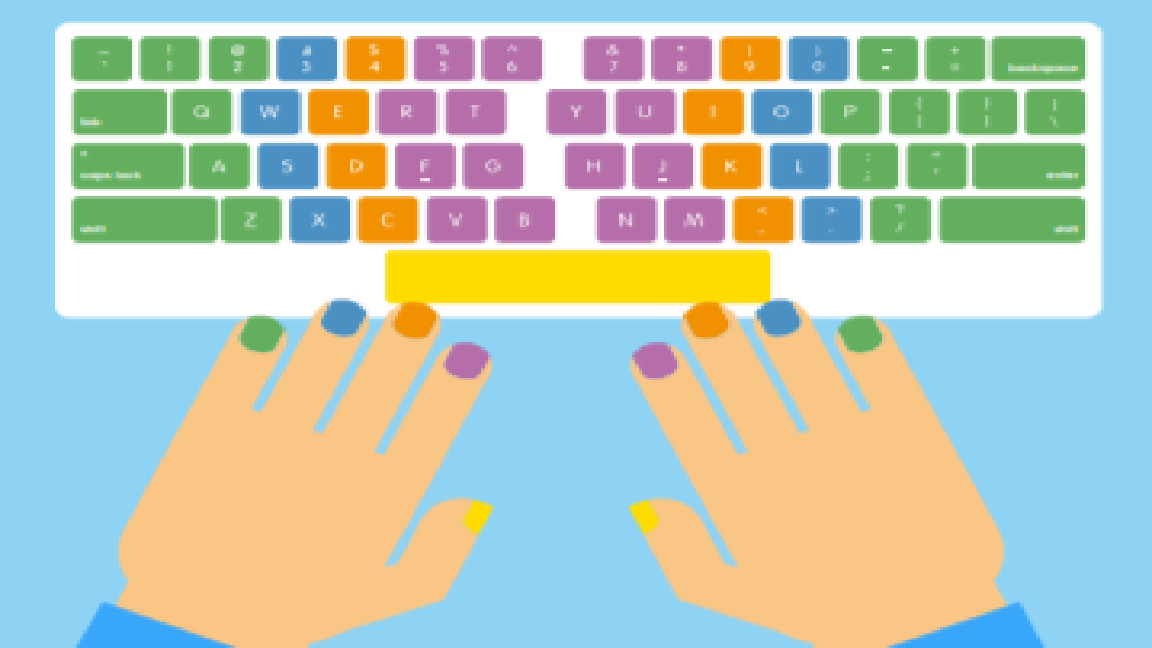
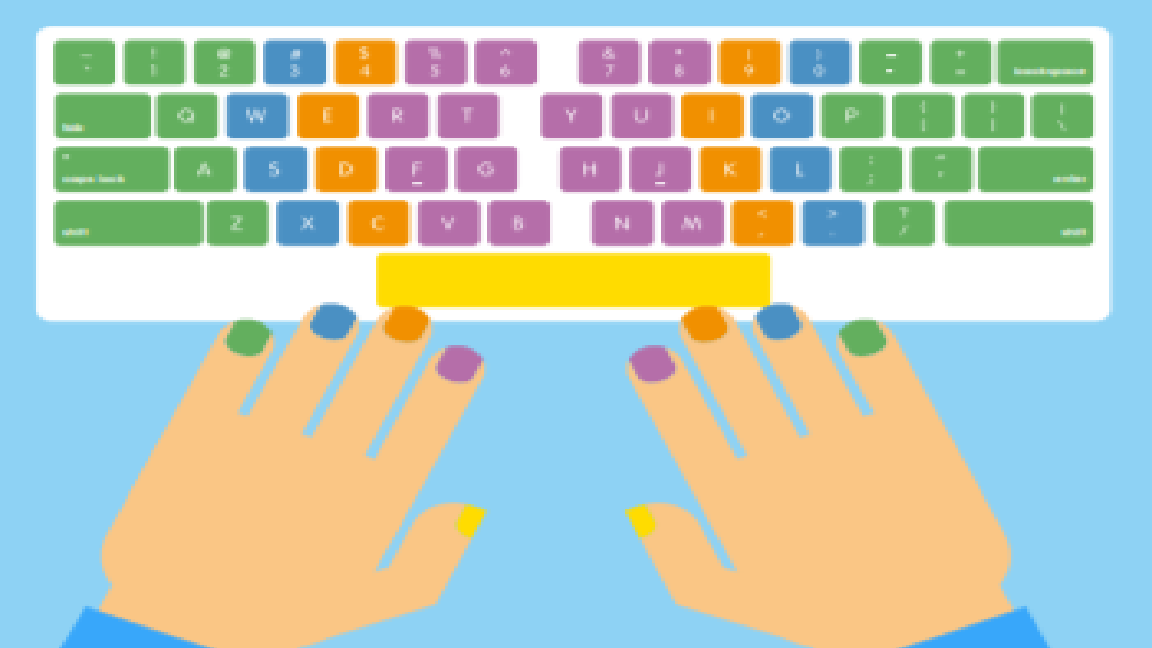
Update keyboard word clicker

diff --git a/LerenTypen/Pages/TipPage.xaml b/LerenTypen/Pages/TipPage.xaml
@@ -1,4 +1,4 @@
-<Page x:Class="LerenTypen.TipPage"
+<Page x:Name="TipPage_WPF" x:Class="LerenTypen.TipPage"
       xmlns="http://schemas.microsoft.com/winfx/2006/xaml/presentation"
       xmlns:x="http://schemas.microsoft.com/winfx/2006/xaml"
       xmlns:mc="http://schemas.openxmlformats.org/markup-compatibility/2006" 
@@ -6,7 +6,7 @@
       xmlns:local="clr-namespace:LerenTypen"
       mc:Ignorable="d" 
       d:DesignHeight="570" d:DesignWidth="1050" Background="White"
-      Title="Page4" ShowsNavigationUI="False">
+      Title="Page4" ShowsNavigationUI="False" KeyDown="KeyUp_Clicker">
 
     <Grid>
         <Grid.ColumnDefinitions>
@@ -15,17 +15,166 @@
         </Grid.ColumnDefinitions>
         <Grid.RowDefinitions>
             <RowDefinition Height="103*"/>
-            <RowDefinition Height="255*"/>
-            <RowDefinition Height="211*"/>
+            <RowDefinition Height="401*"/>
+            <RowDefinition Height="401*"/>
+            <RowDefinition Height="66*"/>
         </Grid.RowDefinitions>
 
         <Label x:Name="TipPage_Label_Title" Grid.Column="0" Grid.Row="0" Content="Tips en advies" HorizontalAlignment="Left" VerticalAlignment="Top" FontSize="32" FontWeight="Bold" Height="53" Width="352"/>
-        <Image Source="/img/HandenV2.png" RenderOptions.BitmapScalingMode="HighQuality" Margin="0,103,0,0.4" Grid.RowSpan="2"/>
-        <Label Content="Heb jij moeite met blind leren typen? Hopelijk kan deze pagina jou helpen.&#xD;&#xA;Begin met een goede houding. Ontspan je schouders en ga rechtop zitten. Zet je linkerwijsvinger op de F-knop&#xD;&#xA;en je rechterwijsvinger op de J-knop. Op deze knoppen voel je streepjes, die helpen je om deze toetsen altijd&#xD;&#xA;terug te kunnen vinden. Zet vervolgens de rest van je vingers aan je linkerhand op de knoppen; A, S en D. &#xD;&#xA;Voor de rechterhand gaan de vingers op knoppen: K,L en ;. Nu heb je een goede uitgangspositie. &#xD;&#xA;Iedere keer als je een letter hebt getypt, kan je terug naar deze uitgangspositie. &#xD;&#xA;Hiernaast staat een plaatje van een QWERTY-toetsenbord met daarbij informatie over welke vinger op &#xD;&#xA;welke toets moet. De kleuren van de letters komen overeen met de kleuren van de vingers. &#xD;&#xA;Zo kan je zien welke vinger op welke plek moet. Probeer bij het oefenen van een toets niet naar het &#xD;&#xA;toetsenbord te kijken, maar zo veel mogelijk naar het scherm. En vergeet niet, oefening baart kunst!&#xD;&#xA;&#xD;&#xA;&#xD;&#xA;Succes!" Grid.Row="1" Grid.Column="1" HorizontalAlignment="Left" VerticalAlignment="Top" Height="255" Grid.RowSpan="2" Width="602"/>
-        <StackPanel Orientation="Horizontal" Grid.Row="1" Grid.Column="1" VerticalAlignment="Bottom" HorizontalAlignment="Left">
-            <Label Content="Wil je persoonlijk advies zien? log hier in:" Width="230" />
-            <Button x:Name="loginRegisterButton" Width="300" Click="LoginRegisterButton_Click">Inloggen/registreren om toetsen te oefenen</Button>
+        <Image Source="/img/KeyboardPlacements.png" RenderOptions.BitmapScalingMode="HighQuality" Margin="0,103,0,3" Grid.RowSpan="2"/>
+        <Label Content="Heb jij moeite met blind leren typen? Hopelijk kan deze pagina jou helpen.&#xD;&#xA;Begin met een goede houding. Ontspan je schouders en ga rechtop zitten. Zet je linkerwijsvinger op de F-knop&#xD;&#xA;en je rechterwijsvinger op de J-knop. Op deze knoppen voel je streepjes, die helpen je om deze toetsen altijd&#xD;&#xA;terug te kunnen vinden. Zet vervolgens de rest van je vingers aan je linkerhand op de knoppen; A, S en D. &#xD;&#xA;Voor de rechterhand gaan de vingers op knoppen: K,L en ;. Nu heb je een goede uitgangspositie. &#xD;&#xA;Iedere keer als je een letter hebt getypt, kan je terug naar deze uitgangspositie. &#xD;&#xA;Hiernaast staat een plaatje van een QWERTY-toetsenbord met daarbij informatie over welke vinger op &#xD;&#xA;welke toets moet. De kleuren van de letters komen overeen met de kleuren van de vingers. &#xD;&#xA;Zo kan je zien welke vinger op welke plek moet. Probeer bij het oefenen van een toets niet naar het &#xD;&#xA;toetsenbord te kijken, maar zo veel mogelijk naar het scherm. En vergeet niet, oefening baart kunst!&#xD;&#xA;&#xD;&#xA;&#xD;&#xA;Succes!" Grid.Column="1" HorizontalAlignment="Left" VerticalAlignment="Top" Height="255" Grid.RowSpan="2" Width="602" Margin="0,103,-0.4,0"/>
+        <Image x:Name="TipPage_Image_HandsBlack" Source="/img/KeyboardPlacements.png" Grid.Column="1" Grid.Row="2" HorizontalAlignment="Left" VerticalAlignment="Top"/>
+        <Label Content="Wil je gaan oefenen? log hier in:" Width="230" Grid.Column="0" Grid.Row="3" HorizontalAlignment="Right"/>
+        <Button x:Name="loginRegisterButton" Width="300" HorizontalAlignment="Left" Grid.Column="1" Grid.Row="3" Click="LoginRegisterButton_Click">Inloggen/registreren om toetsen te oefenen</Button>
+        <TextBox x:Name="TipPage_TestBox" HorizontalAlignment="Left" Height="23" Margin="161,132,0,0" Grid.Row="2" TextWrapping="Wrap" Text="" VerticalAlignment="Top" Width="120" KeyDown="KeyUp_Clicker"/>
+        <StackPanel Orientation="Horizontal" Grid.Row="2" Grid.Column="1" HorizontalAlignment="Center" Margin="18,33,270.6,183.2" Width="313">
+            <Rectangle x:Name="TipPage_Canvas_Key_WobbleLine" Fill="Black" Width="19" Height="18" HorizontalAlignment="Left" VerticalAlignment="Top"/>
+            <Rectangle x:Name="TipPage_Canvas_Key_1" Fill="Black" Height="18" Width="20" HorizontalAlignment="Left" VerticalAlignment="Top" Margin="2,0"/>
+            <Rectangle x:Name="TipPage_Canvas_Key_2" Fill="Black" Height="18" Width="19" HorizontalAlignment="Left" VerticalAlignment="Top"/>
+            <Rectangle x:Name="TipPage_Canvas_Key_3" Fill="Black" Height="18" Width="21" HorizontalAlignment="Left" VerticalAlignment="Top" Margin="1,0"/>
+            <Rectangle x:Name="TipPage_Canvas_Key_4" Fill="Black" Height="18" Width="20" HorizontalAlignment="Left" VerticalAlignment="Top" Margin="1,0"/>
+            <Rectangle x:Name="TipPage_Canvas_Key_5" Fill="Black" Height="18" Width="21" HorizontalAlignment="Left" VerticalAlignment="Top" Margin="1,0"/>
+            <Rectangle x:Name="TipPage_Canvas_Key_6" Fill="Black" Height="18" Width="20" HorizontalAlignment="Left" VerticalAlignment="Top" Margin="1,0"/>
+            <Rectangle x:Name="TipPage_Canvas_Key_7" Fill="Black" Height="18" Width="20" HorizontalAlignment="Left" VerticalAlignment="Top" Margin="1,0"/>
+            <Rectangle x:Name="TipPage_Canvas_Key_8" Fill="Black" Height="18" Width="20" HorizontalAlignment="Left" VerticalAlignment="Top" Margin="1,0"/>
+            <Rectangle x:Name="TipPage_Canvas_Key_9" Fill="Black" Height="18" Width="20" HorizontalAlignment="Left" VerticalAlignment="Top" Margin="1,0"/>
+            <Rectangle x:Name="TipPage_Canvas_Key_0" Fill="Black" Height="18" Width="20" HorizontalAlignment="Left" VerticalAlignment="Top" Margin="1,0"/>
+            <Rectangle x:Name="TipPage_Canvas_Key_MinusSign" Fill="Black" Height="18" Width="20" HorizontalAlignment="Left" VerticalAlignment="Top" Margin="1,0"/>
+            <Rectangle x:Name="TipPage_Canvas_Key_EqualsSign" Fill="Black" Height="18" Width="20" HorizontalAlignment="Left" VerticalAlignment="Top" Margin="1,0"/>
+            <Rectangle x:Name="TipPage_Canvas_Key_Backspace" Fill="Black" Height="18" Width="33" HorizontalAlignment="Right" VerticalAlignment="Top" Margin="1,0"/>
         </StackPanel>
+        <StackPanel Orientation="Horizontal" Grid.Row="2" Grid.Column="1" HorizontalAlignment="Center" Margin="18,52,270.6,164.2" Width="313">
+            <Rectangle x:Name="TipPage_Canvas_Key_Tab" Fill="Black" Width="26" Height="18" HorizontalAlignment="Left" VerticalAlignment="Top"/>
+            <Rectangle x:Name="TipPage_Canvas_Key_Q" Fill="Black" Height="18" Width="20" HorizontalAlignment="Left" VerticalAlignment="Top" Margin="2,0"/>
+            <Rectangle x:Name="TipPage_Canvas_Key_W" Fill="Black" Height="18" Width="19" HorizontalAlignment="Left" VerticalAlignment="Top"/>
+            <Rectangle x:Name="TipPage_Canvas_Key_E" Fill="Black" Height="18" Width="21" HorizontalAlignment="Left" VerticalAlignment="Top" Margin="1,0"/>
+            <Rectangle x:Name="TipPage_Canvas_Key_R" Fill="Black" Height="18" Width="20" HorizontalAlignment="Left" VerticalAlignment="Top" Margin="1,0"/>
+            <Rectangle x:Name="TipPage_Canvas_Key_T" Fill="Black" Height="18" Width="21" HorizontalAlignment="Left" VerticalAlignment="Top" Margin="1,0"/>
+            <Rectangle x:Name="TipPage_Canvas_Key_Y" Fill="Black" Height="18" Width="20" HorizontalAlignment="Left" VerticalAlignment="Top" Margin="1,0"/>
+            <Rectangle x:Name="TipPage_Canvas_Key_U" Fill="Black" Height="18" Width="20" HorizontalAlignment="Left" VerticalAlignment="Top" Margin="1,0"/>
+            <Rectangle x:Name="TipPage_Canvas_Key_I" Fill="Black" Height="18" Width="20" HorizontalAlignment="Left" VerticalAlignment="Top" Margin="1,0"/>
+            <Rectangle x:Name="TipPage_Canvas_Key_O" Fill="Black" Height="18" Width="20" HorizontalAlignment="Left" VerticalAlignment="Top" Margin="1,0"/>
+            <Rectangle x:Name="TipPage_Canvas_Key_P" Fill="Black" Height="18" Width="20" HorizontalAlignment="Left" VerticalAlignment="Top" Margin="1,0"/>
+            <Rectangle x:Name="TipPage_Canvas_Key_LeftCurlyBracket" Fill="Black" Height="18" Width="20" HorizontalAlignment="Left" VerticalAlignment="Top" Margin="1,0"/>
+            <Rectangle x:Name="TipPage_Canvas_Key_RightCurlyBracket" Fill="Black" Height="18" Width="20" HorizontalAlignment="Left" VerticalAlignment="Top" Margin="1,0"/>
+        </StackPanel>
+        <StackPanel x:Name="TipPage_StackPanel_Keyboard_Row2" Orientation="Horizontal" Grid.Row="2" Grid.Column="1" HorizontalAlignment="Center" Margin="18,71,270.6,146.2" Width="313">
+            <Rectangle x:Name="TipPage_Canvas_Key_Capital" Fill="Black" Width="32" Height="18" HorizontalAlignment="Left" VerticalAlignment="Top"/>
+            <Rectangle x:Name="TipPage_Canvas_Key_A" Fill="Black" Height="18" Width="20" HorizontalAlignment="Left" VerticalAlignment="Top" Margin="2,0"/>
+            <Rectangle x:Name="TipPage_Canvas_Key_S" Fill="Black" Height="18" Width="19" HorizontalAlignment="Left" VerticalAlignment="Top" Margin="1,0"/>
+            <Rectangle x:Name="TipPage_Canvas_Key_D" Fill="Black" Height="18" Width="21" HorizontalAlignment="Left" VerticalAlignment="Top" Margin="1,0"/>
+            <Rectangle x:Name="TipPage_Canvas_Key_F" Fill="Black" Height="18" Width="20" HorizontalAlignment="Left" VerticalAlignment="Top" Margin="1,0"/>
+            <Rectangle x:Name="TipPage_Canvas_Key_G" Fill="Black" Height="18" Width="20" HorizontalAlignment="Left" VerticalAlignment="Top" Margin="1,0"/>
+            <Rectangle x:Name="TipPage_Canvas_Key_H" Fill="Black" Height="18" Width="20" HorizontalAlignment="Left" VerticalAlignment="Top" Margin="1,0"/>
+            <Rectangle x:Name="TipPage_Canvas_Key_J" Fill="Black" Height="18" Width="20" HorizontalAlignment="Left" VerticalAlignment="Top" Margin="1,0"/>
+            <Rectangle x:Name="TipPage_Canvas_Key_K" Fill="Black" Height="18" Width="20" HorizontalAlignment="Left" VerticalAlignment="Top" Margin="1,0"/>
+            <Rectangle x:Name="TipPage_Canvas_Key_L" Fill="Black" Height="18" Width="20" HorizontalAlignment="Left" VerticalAlignment="Top" Margin="1,0"/>
+            <Rectangle x:Name="TipPage_Canvas_Key_Oem1" Fill="Black" Height="18" Width="20" HorizontalAlignment="Left" VerticalAlignment="Top" Margin="1,0"/>
+            <Rectangle x:Name="TipPage_Canvas_Key_Oem7" Fill="Black" Height="18" Width="20" HorizontalAlignment="Left" VerticalAlignment="Top" Margin="1,0"/>
+            <Rectangle x:Name="TipPage_Canvas_Key_HashTag" Fill="Black" Height="18" Width="20" HorizontalAlignment="Left" VerticalAlignment="Top" Margin="1,0"/>
+        </StackPanel>
+        <StackPanel Orientation="Horizontal" Grid.Row="2" Grid.Column="1" HorizontalAlignment="Center" Margin="18,89,270.6,127.2" Width="313">
+            <Rectangle x:Name="TipPage_Canvas_Key_LeftShift" Fill="Black" Width="20" Height="18" HorizontalAlignment="Left" VerticalAlignment="Bottom"/>
+            <Rectangle x:Name="TipPage_Canvas_Key_HorizontalLine" Fill="Black" Height="18" Width="20" HorizontalAlignment="Left" VerticalAlignment="Bottom" Margin="2,0"/>
+            <Rectangle x:Name="TipPage_Canvas_Key_Z" Fill="Black" Height="18" Width="19" HorizontalAlignment="Left" VerticalAlignment="Bottom"/>
+            <Rectangle x:Name="TipPage_Canvas_Key_X" Fill="Black" Height="18" Width="21" HorizontalAlignment="Left" VerticalAlignment="Bottom" Margin="1,0"/>
+            <Rectangle x:Name="TipPage_Canvas_Key_C" Fill="Black" Height="18" Width="20" HorizontalAlignment="Left" VerticalAlignment="Bottom" Margin="1,0"/>
+            <Rectangle x:Name="TipPage_Canvas_Key_V" Fill="Black" Height="18" Width="20" HorizontalAlignment="Left" VerticalAlignment="Bottom" Margin="1,0"/>
+            <Rectangle x:Name="TipPage_Canvas_Key_B" Fill="Black" Height="18" Width="20" HorizontalAlignment="Left" VerticalAlignment="Bottom" Margin="1,0"/>
+            <Rectangle x:Name="TipPage_Canvas_Key_N" Fill="Black" Height="18" Width="20" HorizontalAlignment="Left" VerticalAlignment="Bottom" Margin="1,0"/>
+            <Rectangle x:Name="TipPage_Canvas_Key_M" Fill="Black" Height="18" Width="20" HorizontalAlignment="Left" VerticalAlignment="Bottom" Margin="1,0"/>
+            <Rectangle x:Name="TipPage_Canvas_Key_LeftArrow" Fill="Black" Height="18" Width="20" HorizontalAlignment="Left" VerticalAlignment="Bottom" Margin="1,0"/>
+            <Rectangle x:Name="TipPage_Canvas_Key_RightArrow" Fill="Black" Height="18" Width="20" HorizontalAlignment="Left" VerticalAlignment="Bottom" Margin="1,0"/>
+            <Rectangle x:Name="TipPage_Canvas_Key_QuestionMark" Fill="Black" Height="18" Width="20" HorizontalAlignment="Left" VerticalAlignment="Bottom" Margin="1,0"/>
+            <Rectangle x:Name="TipPage_Canvas_Key_RightShift" Fill="Black" Height="18" Width="54" HorizontalAlignment="Left" VerticalAlignment="Bottom" Margin="1,0"/>
+        </StackPanel>
+        <StackPanel Orientation="Horizontal" Grid.Row="2" Grid.Column="1" HorizontalAlignment="Center" Margin="18,108,270.6,108.2" Width="313">
+            <Rectangle x:Name="TipPage_Canvas_Key_LeftControl" Fill="Black" Width="22" Height="18" HorizontalAlignment="Left" VerticalAlignment="Center"/>
+            <Rectangle x:Name="TipPage_Canvas_Key_LeftWindowsKey" Fill="Black" Height="18" Width="20" HorizontalAlignment="Left" VerticalAlignment="Center" Margin="2,0"/>
+            <Rectangle x:Name="TipPage_Canvas_Key_LeftAlt" Fill="Black" Height="18" Width="19" HorizontalAlignment="Left" VerticalAlignment="Center"/>
+            <Rectangle x:Name="TipPage_Canvas_Key_Spacebar" Fill="Black" Height="18" Width="158" HorizontalAlignment="Left" VerticalAlignment="Center" Margin="1,0"/>
+            <Rectangle x:Name="TipPage_Canvas_Key_RightAlt" Fill="Black" Height="18" Width="20" HorizontalAlignment="Left" VerticalAlignment="Center" Margin="1,0"/>
+            <Rectangle x:Name="TipPage_Canvas_Key_RightWindowsKey" Fill="Black" Height="18" Width="21" HorizontalAlignment="Left" VerticalAlignment="Center" Margin="1,0"/>
+            <Rectangle x:Name="TipPage_Canvas_Key_Empty" Fill="Black" Height="18" Width="20" HorizontalAlignment="Left" VerticalAlignment="Center" Margin="1,0"/>
+            <Rectangle x:Name="TipPage_Canvas_Key_RightControl" Fill="Black" Height="18" Width="21" HorizontalAlignment="Left" VerticalAlignment="Center" Margin="1,0"/>
+        </StackPanel>
+        <Rectangle x:Name="TipPage_Canvas_Key_EnterPart1" Grid.Column="1" Fill="Black" HorizontalAlignment="Left" Height="18" Margin="305,52,0,0" Grid.Row="2" VerticalAlignment="Top" Width="26"/>
+        <Rectangle x:Name="TipPage_Canvas_Key_EnterPart2" Grid.Column="1" Fill="Black" HorizontalAlignment="Left" Height="36" Margin="312,52,0,0" Grid.Row="2" VerticalAlignment="Top" Width="19"/>
+        <Canvas Grid.Column="1" HorizontalAlignment="Left" Height="68" Margin="63,108,0,0" Grid.Row="2" VerticalAlignment="Top" Width="217">
+            <Ellipse x:Name="TipPage_Canvas_Finger_LeftPink" Fill="Black" Width="10" Height="13" Canvas.Left="15" Canvas.Top="20"/>
+            <Ellipse x:Name="TipPage_Canvas_Finger_LeftRingFinger" Fill="Black" Width="10" Height="13" Canvas.Left="37" Canvas.Top="5"/>
+            <Ellipse x:Name="TipPage_Canvas_Finger_LeftRingMiddleFinger" Fill="Black" Width="10" Height="14" Canvas.Left="52" RenderTransformOrigin="0.5,0.5">
+                <Ellipse.RenderTransform>
+                    <TransformGroup>
+                        <ScaleTransform/>
+                        <SkewTransform/>
+                        <RotateTransform Angle="16.929"/>
+                        <TranslateTransform/>
+                    </TransformGroup>
+                </Ellipse.RenderTransform>
+            </Ellipse>
+            <Ellipse x:Name="TipPage_Canvas_Finger_LeftIndexfinger" Fill="Black" Width="10" Height="13" Canvas.Left="64" Canvas.Top="10"/>
+            <Ellipse x:Name="TipPage_Canvas_Finger_LeftThumb" Fill="Black" Width="10" Height="13" Canvas.Left="92" Canvas.Top="42" RenderTransformOrigin="0.5,0.5">
+                <Ellipse.RenderTransform>
+                    <TransformGroup>
+                        <ScaleTransform/>
+                        <SkewTransform/>
+                        <RotateTransform Angle="28.543"/>
+                        <TranslateTransform/>
+                    </TransformGroup>
+                </Ellipse.RenderTransform>
+            </Ellipse>
+            <Ellipse x:Name="TipPage_Canvas_Finger_RightThumb" Fill="Black" Width="10" Height="13" Canvas.Left="124" Canvas.Top="49" RenderTransformOrigin="0.5,0.5">
+                <Ellipse.RenderTransform>
+                    <TransformGroup>
+                        <ScaleTransform/>
+                        <SkewTransform/>
+                        <RotateTransform Angle="-30.444"/>
+                        <TranslateTransform/>
+                    </TransformGroup>
+                </Ellipse.RenderTransform>
+            </Ellipse>
+            <Ellipse x:Name="TipPage_Canvas_Finger_RightIndexFinger" Fill="Black" Width="10" Height="13" Canvas.Left="149" Canvas.Top="16" RenderTransformOrigin="0.5,0.5">
+                <Ellipse.RenderTransform>
+                    <TransformGroup>
+                        <ScaleTransform/>
+                        <SkewTransform/>
+                        <RotateTransform Angle="-16.724"/>
+                        <TranslateTransform/>
+                    </TransformGroup>
+                </Ellipse.RenderTransform>
+            </Ellipse>
+            <Ellipse x:Name="TipPage_Canvas_Finger_RightMiddleFinger" Fill="Black" Width="12" Height="13" Canvas.Left="160" Canvas.Top="7" RenderTransformOrigin="0.5,0.5">
+                <Ellipse.RenderTransform>
+                    <TransformGroup>
+                        <ScaleTransform/>
+                        <SkewTransform/>
+                        <RotateTransform Angle="-13.853"/>
+                        <TranslateTransform/>
+                    </TransformGroup>
+                </Ellipse.RenderTransform>
+            </Ellipse>
+            <Ellipse x:Name="TipPage_Canvas_Finger_RightRingFinger" Fill="Black" Width="10" Height="13" Canvas.Left="176" Canvas.Top="10" RenderTransformOrigin="0.5,0.5">
+                <Ellipse.RenderTransform>
+                    <TransformGroup>
+                        <ScaleTransform/>
+                        <SkewTransform/>
+                        <RotateTransform Angle="-15.107"/>
+                        <TranslateTransform/>
+                    </TransformGroup>
+                </Ellipse.RenderTransform>
+            </Ellipse>
+            <Ellipse x:Name="TipPage_Canvas_Finger_RightPink" Fill="Black" Width="11" Height="14" Canvas.Left="198" Canvas.Top="23" RenderTransformOrigin="0.5,0.5">
+                <Ellipse.RenderTransform>
+                    <TransformGroup>
+                        <ScaleTransform/>
+                        <SkewTransform/>
+                        <RotateTransform Angle="-8.74"/>
+                        <TranslateTransform/>
+                    </TransformGroup>
+                </Ellipse.RenderTransform>
+            </Ellipse>
+        </Canvas>
 
     </Grid>
 </Page>

diff --git a/LerenTypen/Pages/TipPage.xaml.cs b/LerenTypen/Pages/TipPage.xaml.cs
@@ -1,5 +1,9 @@
-using System.Windows;
+using System.Collections.Generic;
+using System.Drawing;
+using System.Runtime.InteropServices;
+using System.Windows;
 using System.Windows.Controls;
+using System.Windows.Media.Imaging;
 
 namespace LerenTypen
 {
@@ -20,6 +24,46 @@ namespace LerenTypen
         private void LoginRegisterButton_Click(object sender, RoutedEventArgs e)
         {
             MainWindow.ChangePage(new LoginPage(MainWindow));
+        }
+
+        private void KeyUp_Clicker(object sender, System.Windows.Input.KeyEventArgs e)
+        {
+            List<string> allNames = new List<string>();
+            foreach (var item in TipPage_StackPanel_Keyboard_Row2.Children)
+            {
+                List<System.Windows.Shapes.Rectangle> allVars = new List<System.Windows.Shapes.Rectangle>();
+                allVars.Add((System.Windows.Shapes.Rectangle)item);
+                foreach (var i in allVars)
+                {
+                    allNames.Add(i.Name.Substring(19));
+
+                }
+            }
+            string check = Models.Tips.ShowKey(e, allNames);
+           // MessageBox.Show(check);
+            var k = "TipPage_Canvas_Key_" + check;
+            //MessageBox.Show(k);
+            foreach (var item in TipPage_StackPanel_Keyboard_Row2.Children)
+            {
+                List<System.Windows.Shapes.Rectangle> allVars = new List<System.Windows.Shapes.Rectangle>();
+                allVars.Add((System.Windows.Shapes.Rectangle)item);
+                foreach (var i in allVars)
+                {
+                    //MessageBox.Show("i is" + i);
+                    if (i.Name.Equals(k))
+                    {
+                        //MessageBox.Show("same");
+                        i.Visibility = Visibility.Hidden;
+                    }
+                    else
+                    {
+                        i.Visibility = Visibility.Visible;
+                    }
+
+                }
+            }
+            //MessageBox.Show(test);
+            //MessageBox.Show(TipPage_Canvas_Key_44.Name.Substring(19));
         }
     }
 }

diff --git a/LerenTypen/Models/Tips.cs b/LerenTypen/Models/Tips.cs
@@ -1,0 +1,31 @@
+using System;
+using System.Collections.Generic;
+using System.Linq;
+using System.Text;
+using System.Threading.Tasks;
+using System.Windows.Input;
+
+namespace LerenTypen.Models
+{
+   public class Tips
+    {
+
+        public static string ShowKey(KeyEventArgs e, List<string> names)
+        {
+            string result = "no outcome";
+
+            //e.Key == System.Windows.Input.Key.D;
+            foreach (string name in names)
+            {
+                var checkKey = e.Key;
+
+                name.ToUpper();
+                if (e.Key.ToString().Equals(name))
+                {
+                    result = name;
+                }
+            }
+            return result;
+        }
+    }
+}
